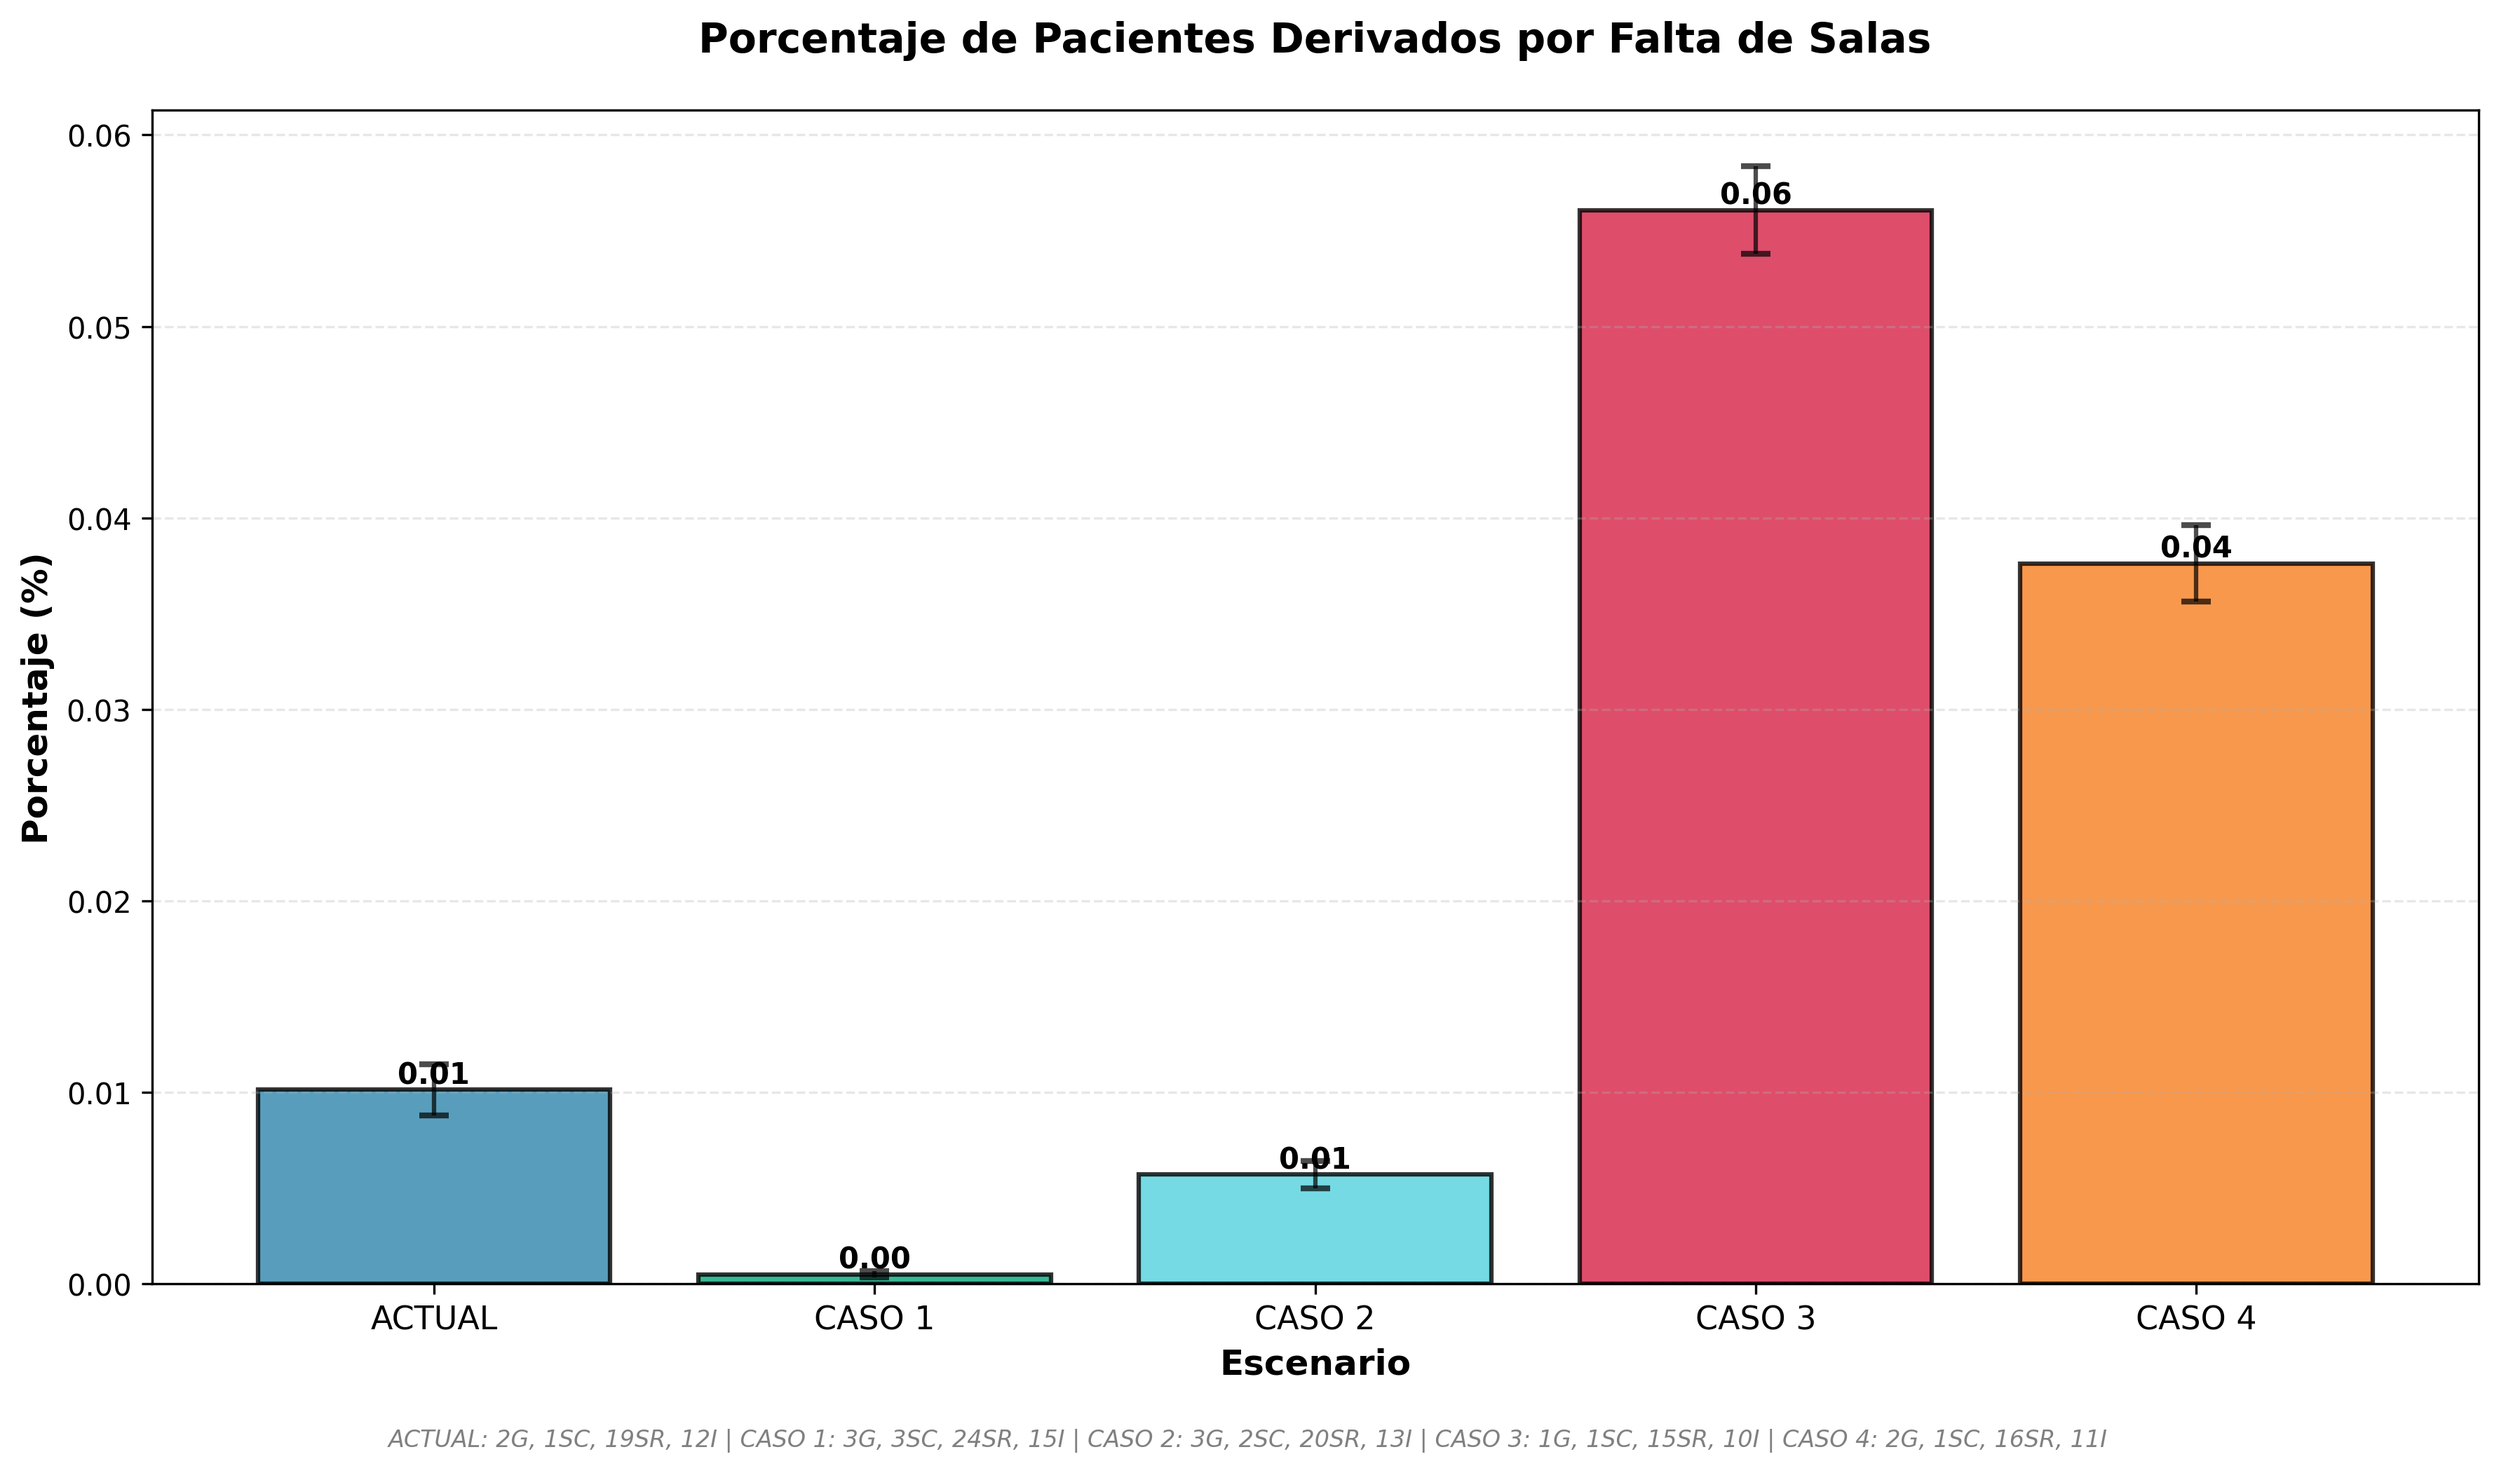
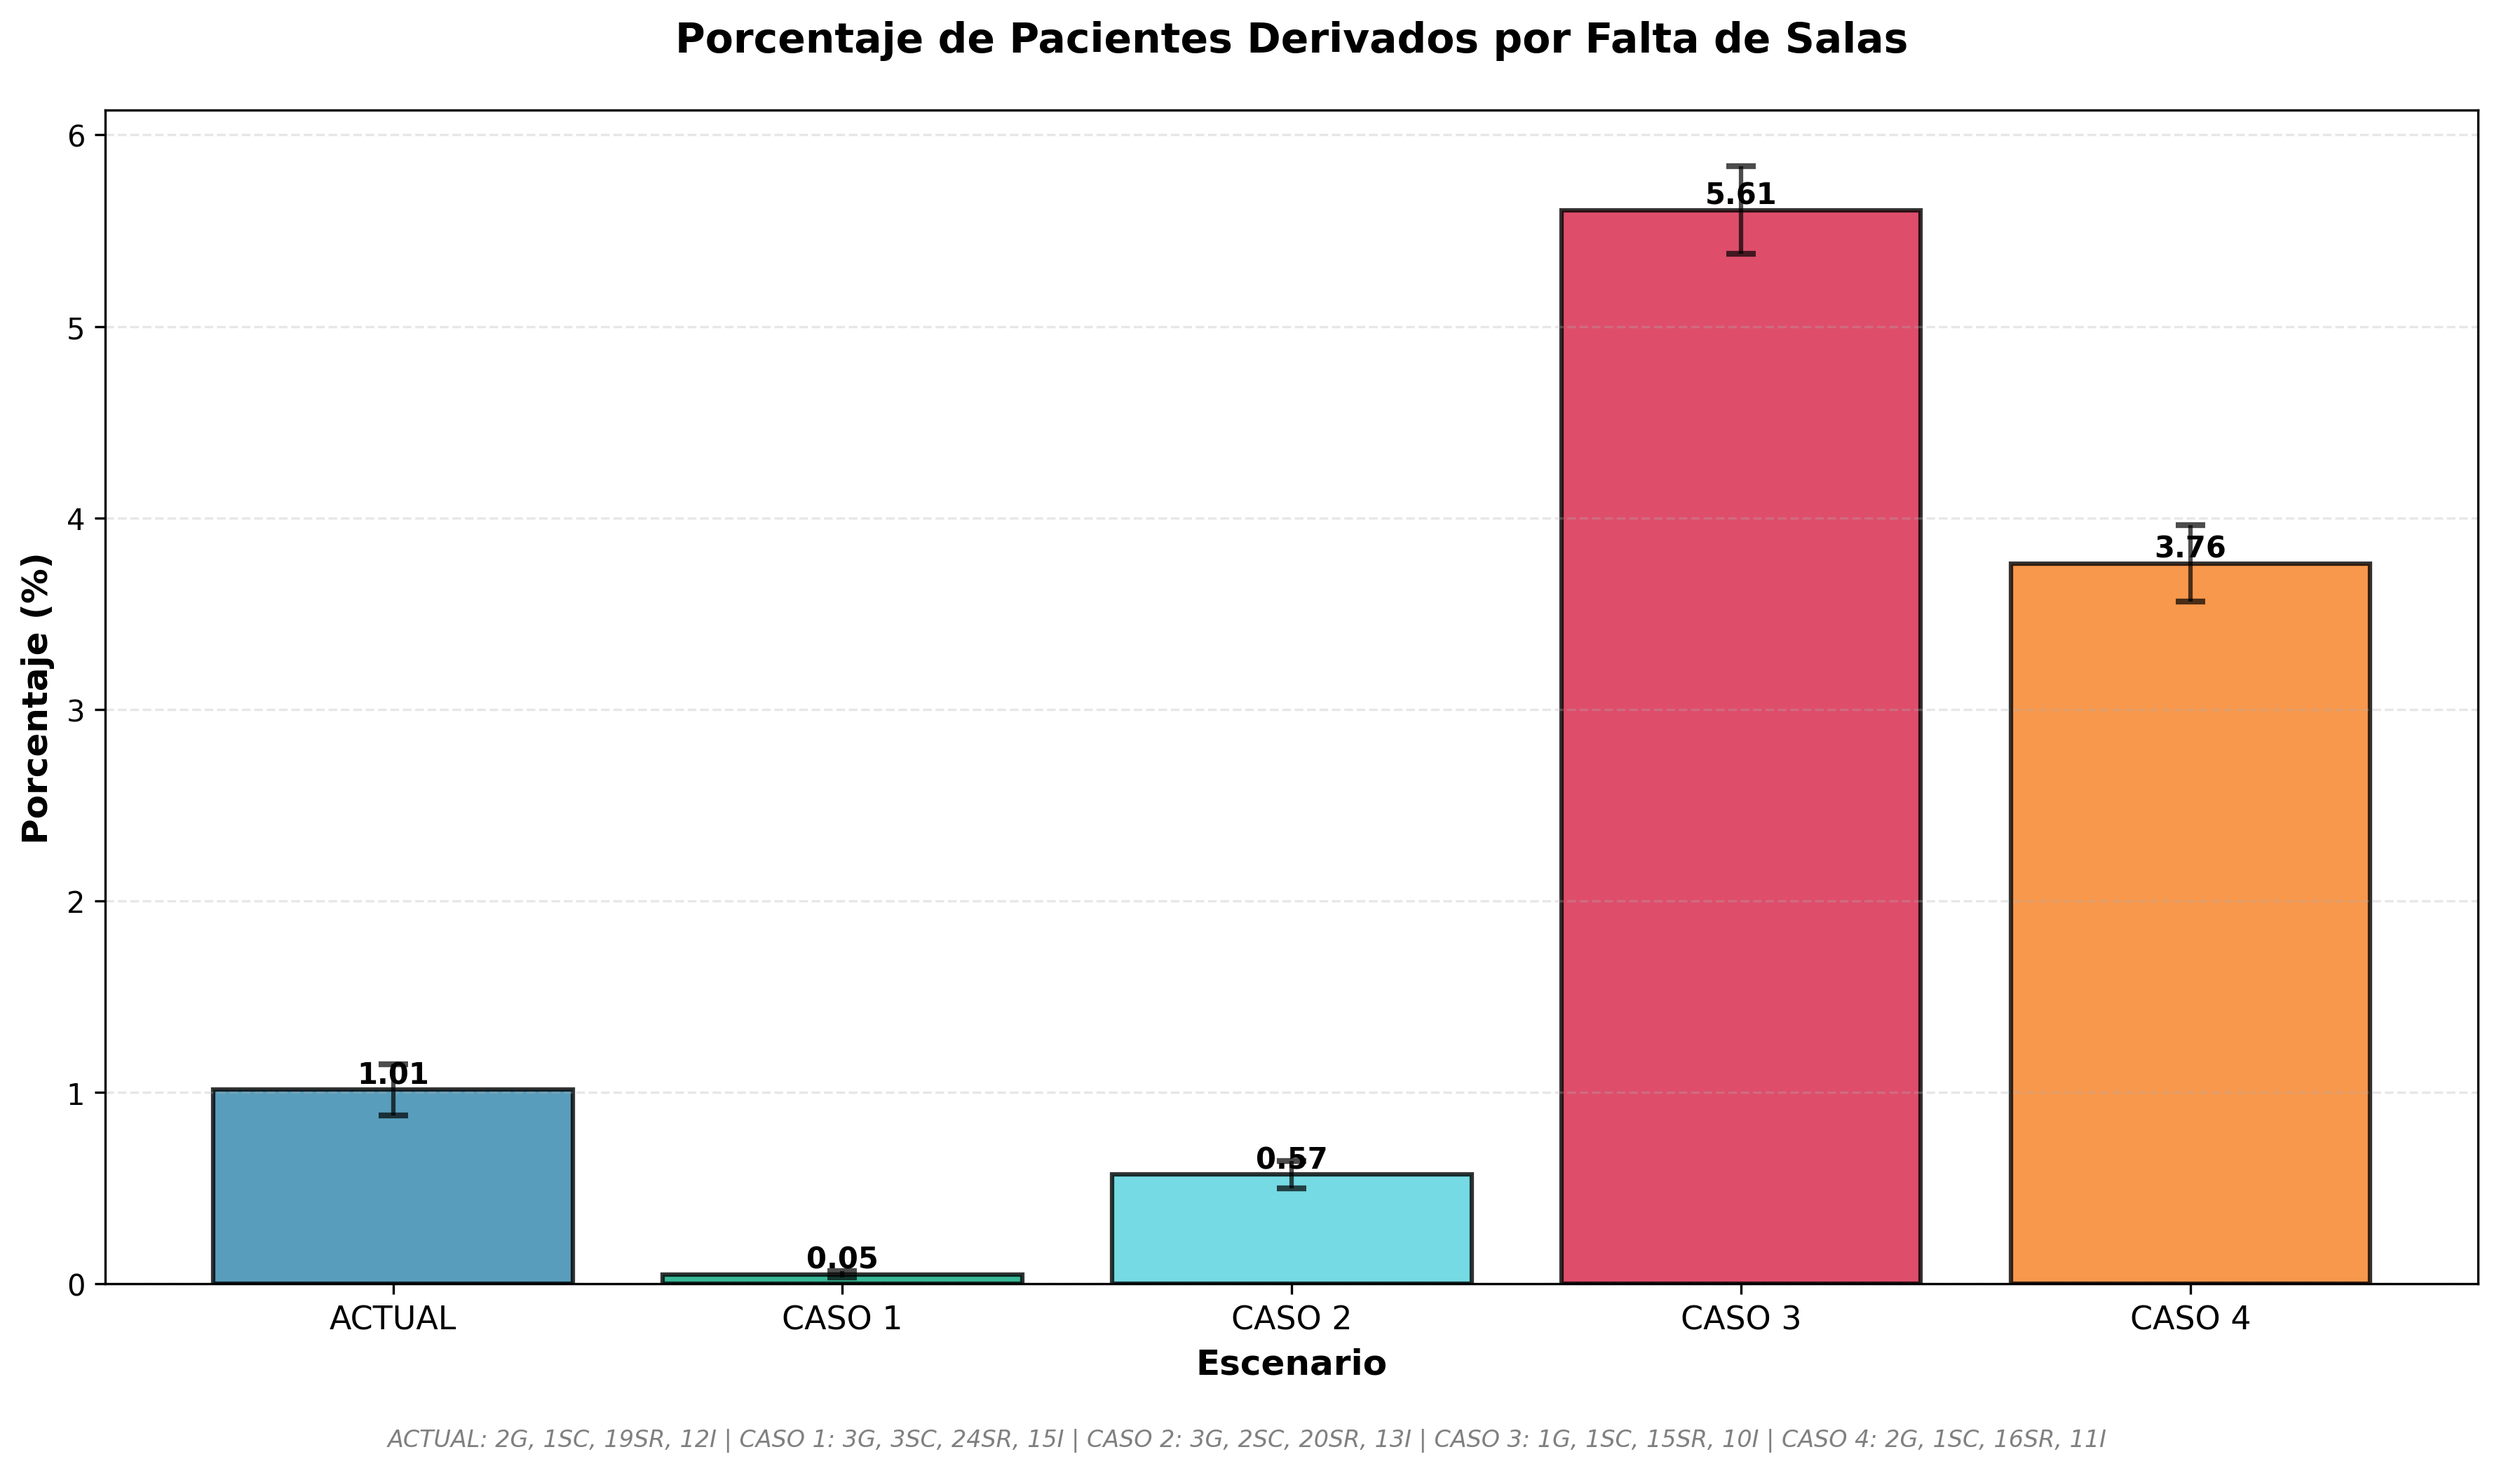
Add scripts for regenerating graphs and verifying PPDSR values in JSON

diff --git a/codigo/regenerar_graficos.py b/codigo/regenerar_graficos.py
@@ -1,0 +1,42 @@
+"""
+Script para regenerar solo los gráficos con porcentajes corregidos
+"""
+import json
+from pathlib import Path
+import sys
+
+# Agregar el directorio de simulación al path
+sys.path.insert(0, str(Path(__file__).parent))
+
+from simulacion.simulacion_cinco_escenarios import ComparadorCincoEscenarios
+
+def regenerar_graficos():
+    """Regenera los gráficos usando los datos JSON existentes."""
+    
+    # Cargar datos existentes
+    resultados_path = Path("resultados_cinco_escenarios")
+    comparacion_file = resultados_path / "comparacion_escenarios.json"
+    
+    if not comparacion_file.exists():
+        print(f"❌ Error: No se encontró {comparacion_file}")
+        return
+    
+    print("📊 Regenerando gráficos con porcentajes corregidos...")
+    print(f"   Leyendo datos de: {comparacion_file}")
+    
+    with open(comparacion_file, 'r', encoding='utf-8') as f:
+        datos = json.load(f)
+    
+    # Crear instancia del comparador con el directorio correcto
+    comparador = ComparadorCincoEscenarios(str(resultados_path))
+    
+    # Generar los gráficos
+    print("\n🎨 Generando gráficos...")
+    comparador._generar_graficos_comparativos(datos)
+    
+    print("\n✅ ¡Gráficos regenerados exitosamente!")
+    print(f"   Los gráficos están en: {resultados_path / 'graficos'}")
+    print("\n💡 Ahora puedes abrir el reporte_interactivo.html para ver los cambios")
+
+if __name__ == "__main__":
+    regenerar_graficos()

diff --git a/codigo/verificar_valores_ppdsr.py b/codigo/verificar_valores_ppdsr.py
@@ -1,0 +1,28 @@
+"""
+Script para verificar los valores de PPDSR en el JSON
+"""
+import json
+from pathlib import Path
+
+# Cargar datos
+resultados_path = Path("resultados_cinco_escenarios")
+comparacion_file = resultados_path / "comparacion_escenarios.json"
+
+with open(comparacion_file, 'r', encoding='utf-8') as f:
+    datos = json.load(f)
+
+print("="*60)
+print("VALORES DE PPDSR EN EL JSON")
+print("="*60)
+for nombre in ['ACTUAL', 'CASO 1', 'CASO 2', 'CASO 3', 'CASO 4']:
+    ppdsr = datos[nombre]['indicadores']['PPDSR']['media']
+    ppdsr_pct = ppdsr * 100
+    print(f"{nombre:10s}: {ppdsr:.6f} → {ppdsr_pct:.2f}%")
+
+print("\n" + "="*60)
+print("VALORES DE PTOSR_promedio EN EL JSON")
+print("="*60)
+for nombre in ['ACTUAL', 'CASO 1', 'CASO 2', 'CASO 3', 'CASO 4']:
+    ptosr = datos[nombre]['indicadores']['PTOSR_promedio']['media']
+    ptosr_pct = ptosr * 100
+    print(f"{nombre:10s}: {ptosr:.6f} → {ptosr_pct:.2f}%")

diff --git a/codigo/simulacion/simulacion_cinco_escenarios.py b/codigo/simulacion/simulacion_cinco_escenarios.py
@@ -547,6 +547,12 @@ class ComparadorCincoEscenarios:
         medias = [resultados[n]['indicadores'][indicador]['media'] for n in nombres]
         stds = [resultados[n]['indicadores'][indicador]['std'] for n in nombres]
         
+        # Detectar si son porcentajes (valores típicamente < 1) y convertir a escala 0-100
+        es_porcentaje = ylabel.startswith('Porcentaje')
+        if es_porcentaje:
+            medias = [m * 100 for m in medias]
+            stds = [s * 100 for s in stds]
+        
         fig, ax = plt.subplots(figsize=(12, 7))
         
         x = np.arange(len(nombres))
